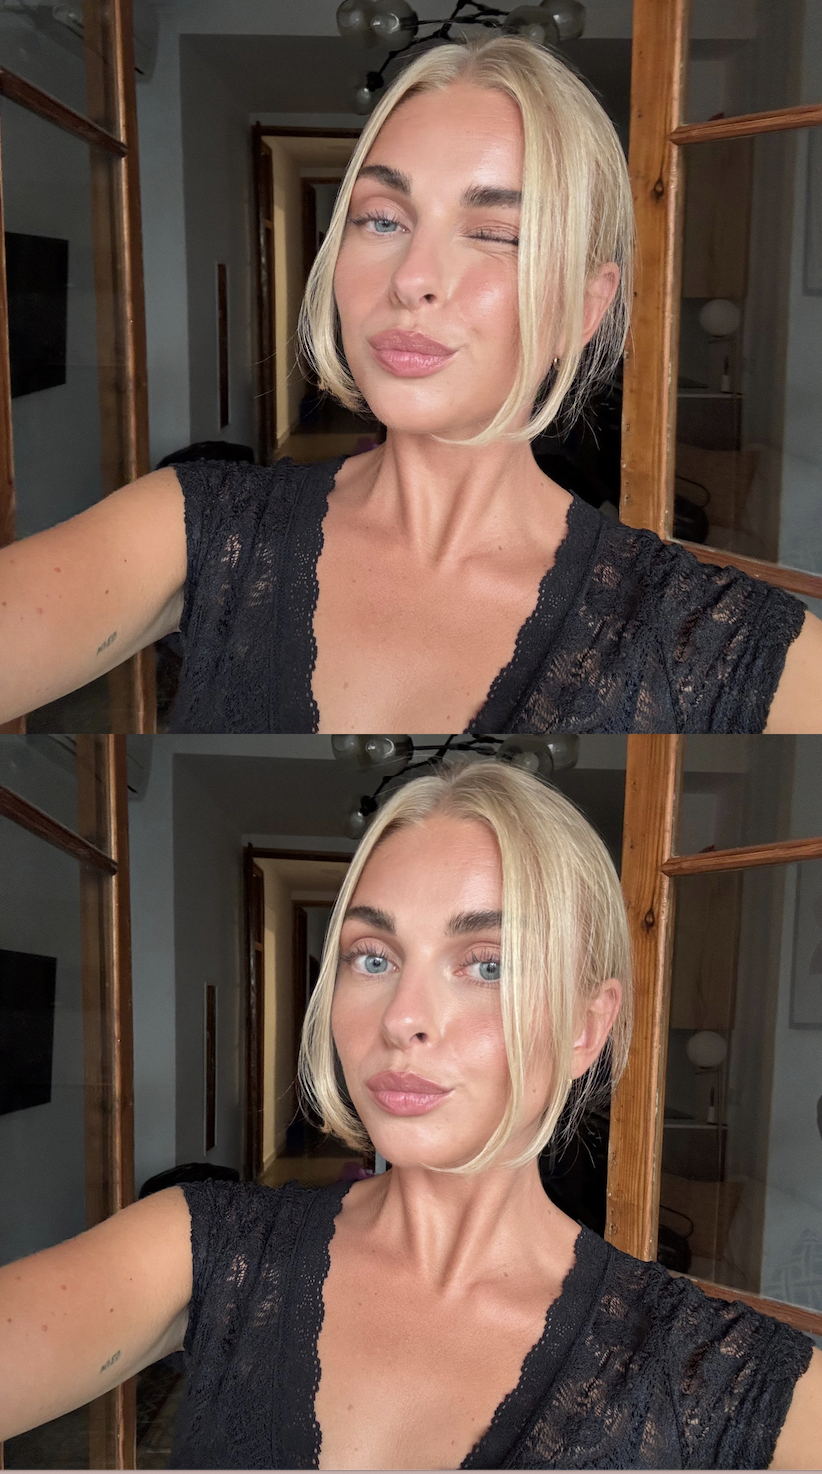
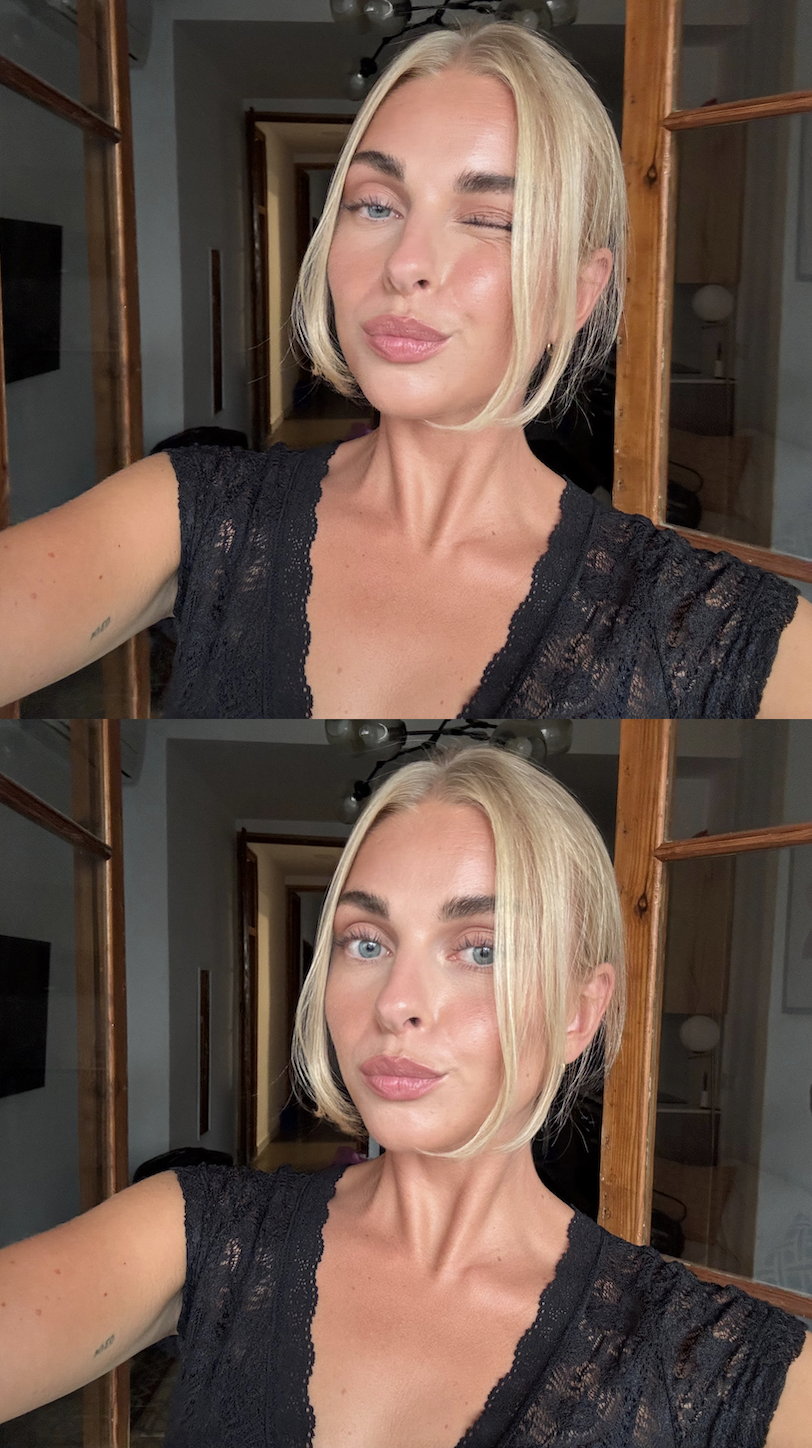
updated portfolio

diff --git a/src/App.jsx b/src/App.jsx
@@ -1,4 +1,4 @@
-import React from "react";
+import React, { useEffect } from "react";
 import heroPortrait from "./assets/hero-portrait.png";
 import photo1 from "./assets/photo1.png";
 import photo2 from "./assets/photo2.png";
@@ -32,6 +32,44 @@ const hotels = [
   { title: "Hotel 3", photos: ["", "", "", "", "", "", "", "", ""] },
 ];
 
+// Lim inn URL-ene til innleggene du vil vise (kopiert fra instagram.com)
+const instagramPosts = [
+  "https://www.instagram.com/p/DX2Rlisij2f/?utm_source=ig_web_copy_link&igsh=MzRlODBiNWFlZA==",
+  "https://www.instagram.com/p/C6uXMuHtY_F/?utm_source=ig_web_copy_link&igsh=MzRlODBiNWFlZA==",
+  "https://www.instagram.com/reel/DZwjXRfKuwb/?utm_source=ig_web_copy_link&igsh=MzRlODBiNWFlZA==",
+];
+
+function InstagramEmbed({ url }) {
+  return (
+    <blockquote
+      className="instagram-media"
+      data-instgrm-permalink={url}
+      data-instgrm-version="14"
+      style={{ background: "#FFF", border: 0, borderRadius: "3px", margin: 0, maxWidth: "360px", minWidth: "326px", width: "100%" }}
+    />
+  );
+}
+
+function InstagramFeed({ posts }) {
+  useEffect(() => {
+    if (window.instgrm) {
+      window.instgrm.Embeds.process();
+      return;
+    }
+    const script = document.createElement("script");
+    script.src = "https://www.instagram.com/embed.js";
+    script.async = true;
+    document.body.appendChild(script);
+  }, [posts]);
+
+  return (
+    <div style={{ display: "flex", gap: "1.5rem", overflowX: "auto", marginTop: "2rem", paddingBottom: "0.5rem" }}>
+      {posts.map((url) => (
+        <InstagramEmbed key={url} url={url} />
+      ))}
+    </div>
+  );
+}
 
 const SLOTS = 8;
 
@@ -231,14 +269,10 @@ export default function App() {
             <p style={{ marginTop: "2rem", fontSize: "14px", lineHeight: 1.9, color: "#555", maxWidth: "420px", marginLeft: "auto", marginRight: "auto" }}>
               Norwegian creator. My content sits at the intersection of beauty, fashion, lifestyle and travel — always authentic, always intentional.
             </p>
-            <div style={{ display: "flex", gap: "2rem", marginTop: "2.5rem" }}>
-              <a href="https://instagram.com/livemhaugland" target="_blank" rel="noreferrer" style={{ fontSize: "11px", letterSpacing: "0.18em", textTransform: "uppercase", borderBottom: "0.5px solid #111", paddingBottom: "3px" }}>
-                Instagram
+            <InstagramFeed posts={instagramPosts} />
+             <a href="https://instagram.com/livemhaugland" target="_blank" rel="noreferrer" style={{ display: "inline-block", marginTop: "1.5rem", fontSize: "11px", letterSpacing: "0.18em", textTransform: "uppercase", borderBottom: "0.5px solid #111", paddingBottom: "3px" }}>
+                View full profile
               </a>
-              <a href="https://tiktok.com/@livemhaugland" target="_blank" rel="noreferrer" style={{ fontSize: "11px", letterSpacing: "0.18em", textTransform: "uppercase", borderBottom: "0.5px solid #111", paddingBottom: "3px" }}>
-                TikTok
-              </a>
-            </div>
           </div>
           <img src={heroPortrait} alt="Live Marie Haugland" style={{ width: "100%", aspectRatio: "3 / 5", objectFit: "cover", objectPosition: "top" }} />
         </div>